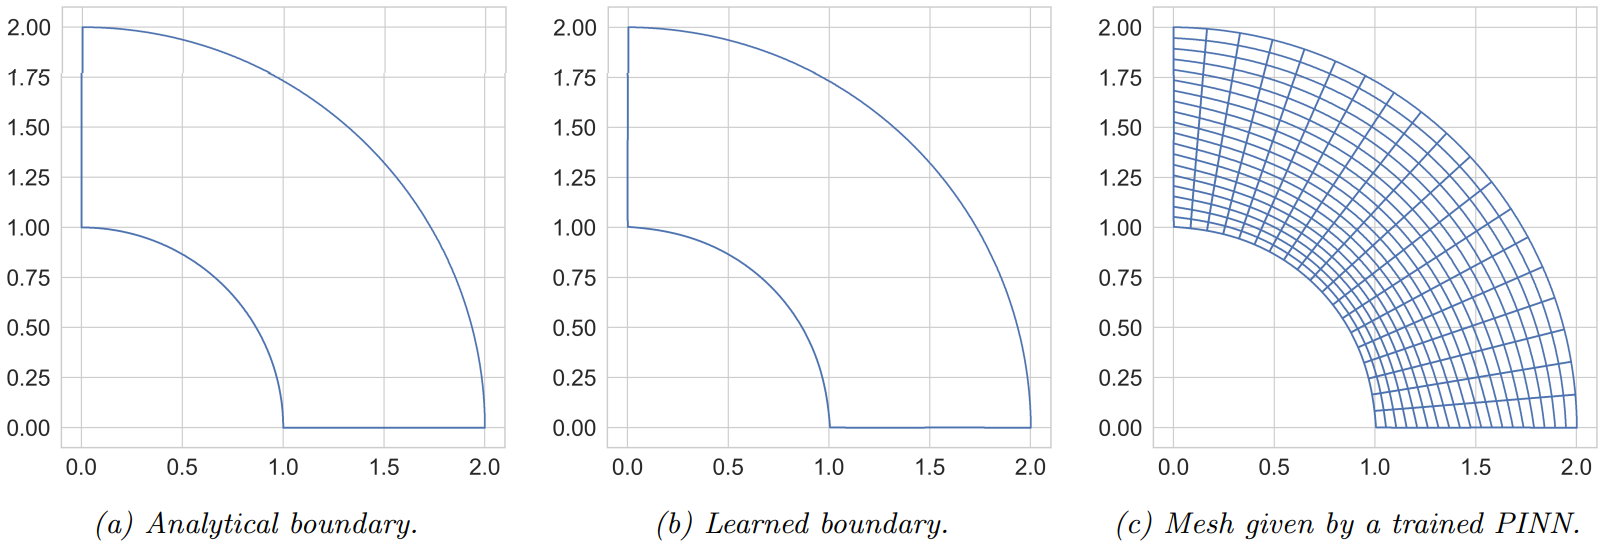
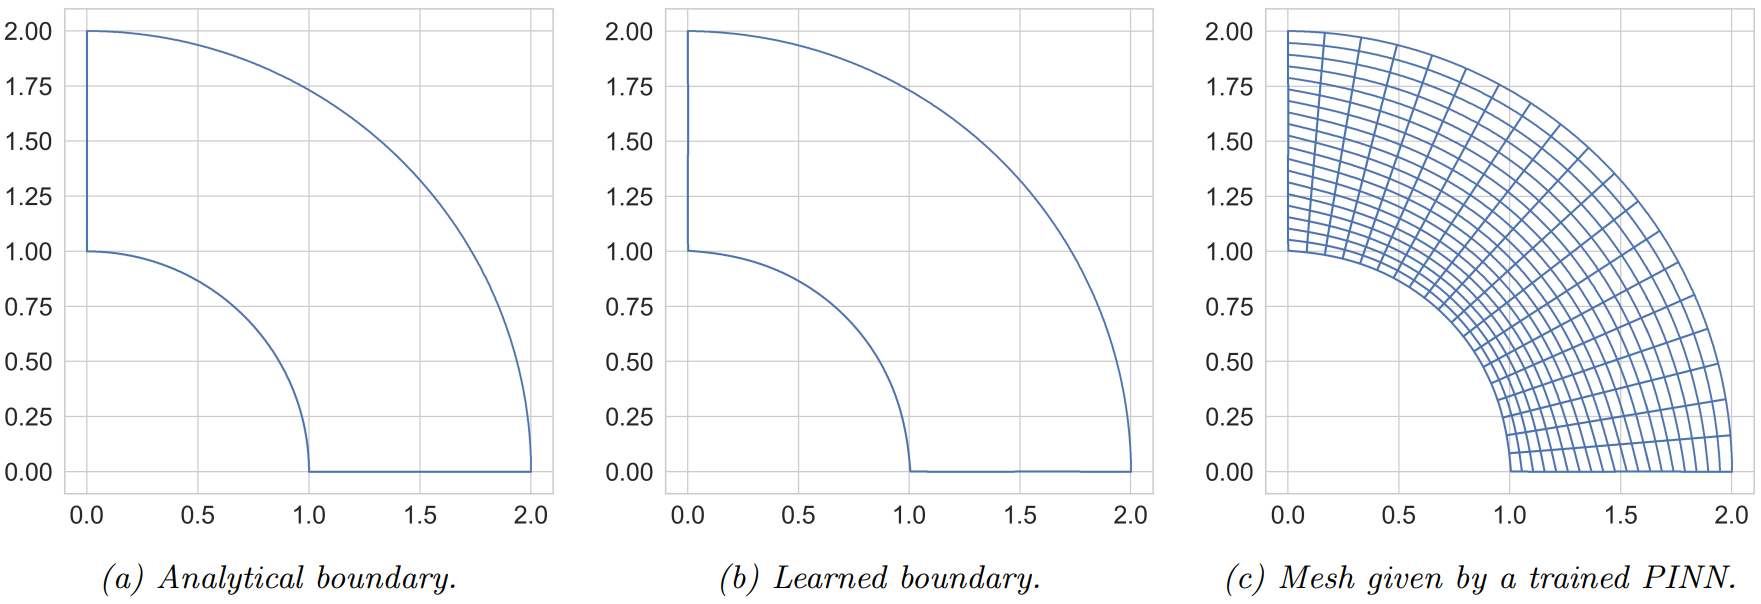
Completed example in the readme file

diff --git a/README.md b/README.md
@@ -58,6 +58,10 @@ The `hmpinn/plotting/` files are very useful in plotting the results directly fr
 For the full report of the project, including theoretical background and experimental analysis, visit [Mattia_Barbiere_report.pdf](./Mattia_Barbiere_report.pdf).
 
 ### Example
+Below you find the solution given by a trained PINN when solving the quarter annulus harmonic map problem. The left image is the analytical
+boundary given by the boundary condition of the problem. The centre figure is the output of the trained PINN
+when evaluated at the boundary of the $[0,1]^2$ square. This represents the boundary that the
+PINN has learned from training. The right image is the trained PINN evaluated at the mesh of the  $[0,1]^2$ square.
 ![Report image](./image_for_readme.png)
 
 ---
